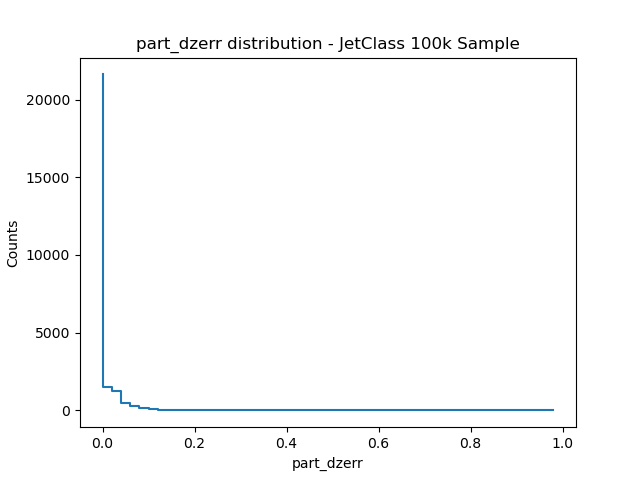
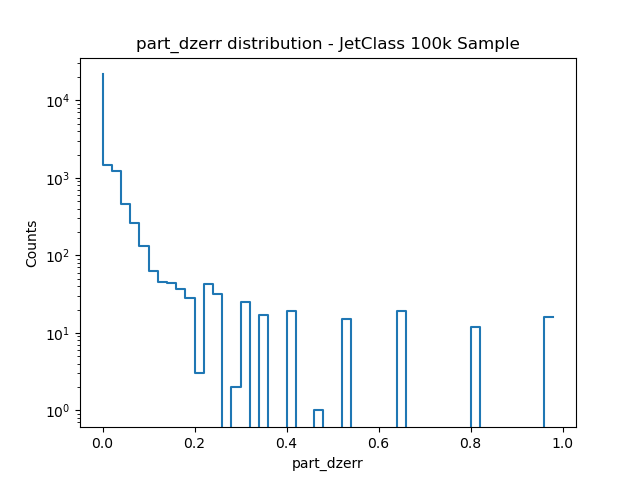
more jets

diff --git a/graph_example_jc_features.py b/graph_example_jc_features.py
@@ -109,9 +109,9 @@ datapath = '/part-vol-3/timlegge-ParT-trained/JetClass_example_100k.root'
 with uproot.open(datapath) as f:
     tree = f['tree']
     data = build_features_and_labels(tree)
-    features = data['pf_features'][:200]
-    vectors = data['pf_vectors'][:200]
-    masks = data['pf_mask'][:200]
+    features = data['pf_features'][:4000]
+    vectors = data['pf_vectors'][:4000]
+    masks = data['pf_mask'][:4000]
 
 print("Features, vectors, and masks loaded.")
 
